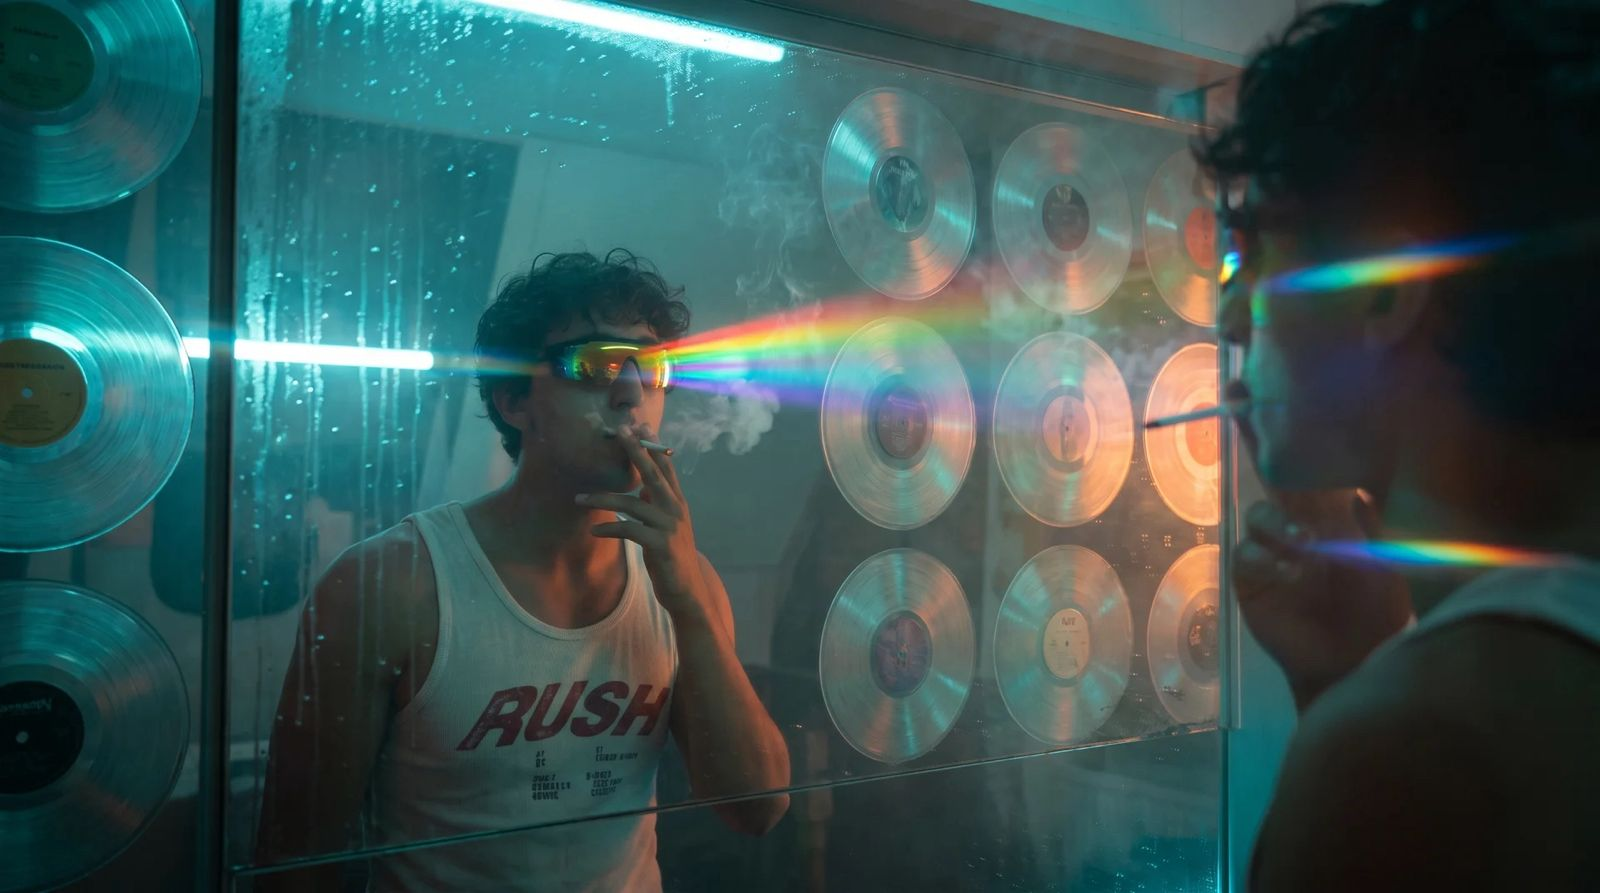
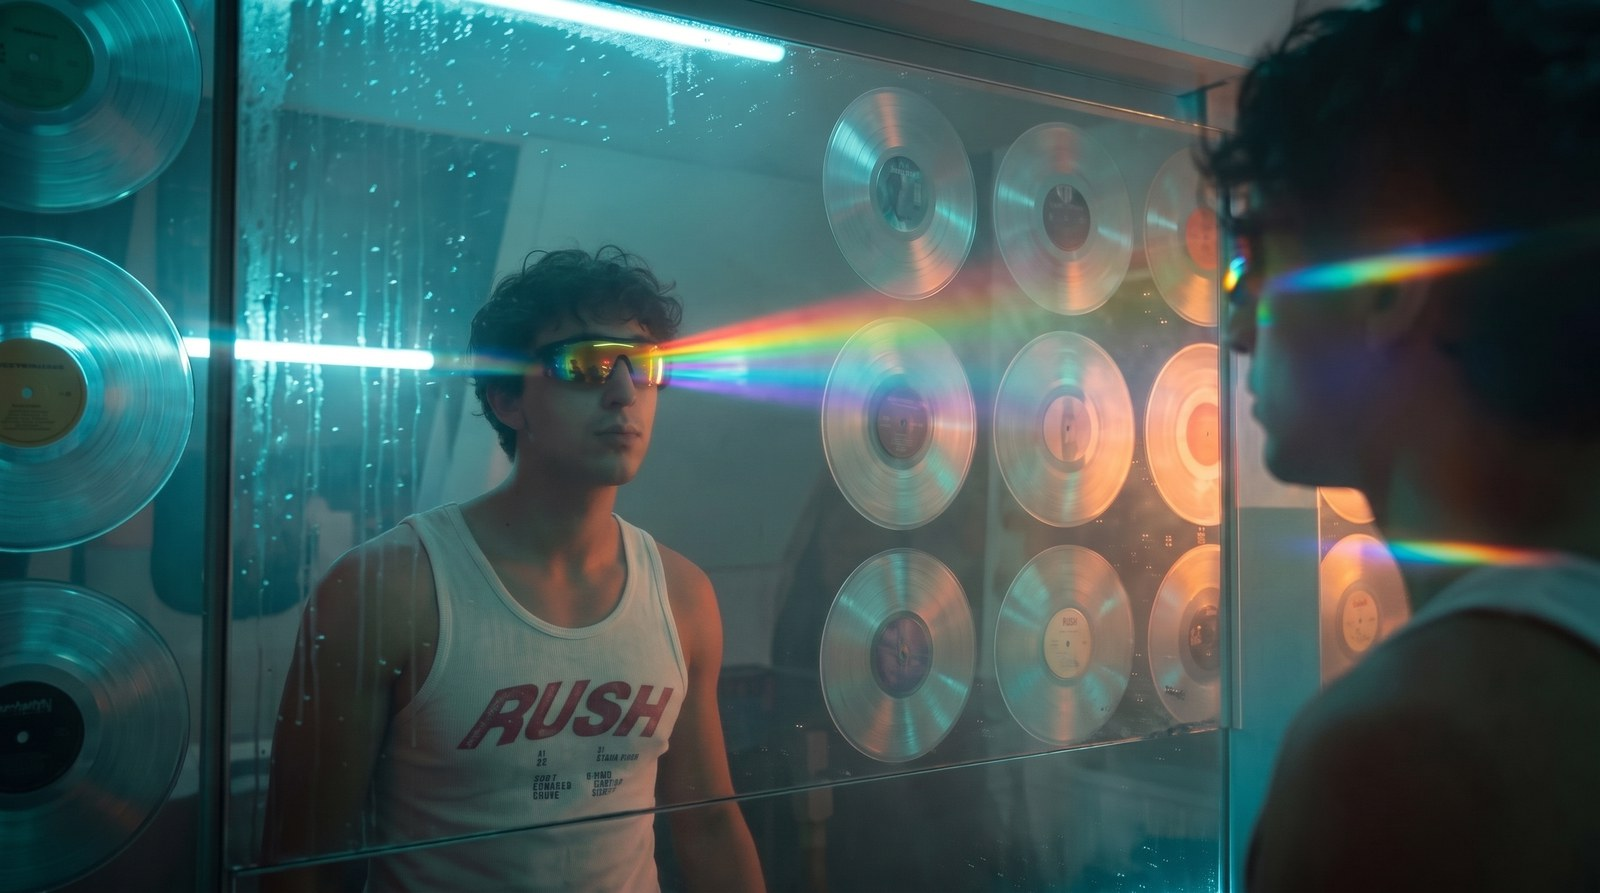
The landing photo puts the cigarette out
Same mirror wall of records, same rainbow through the sunglasses, no
cigarette and no smoke — retouched by model (nano banana pro; the crop
and the 16:9 frame survive, the raised hand came down), approved by its
owner, downscaled to the original 1600x893. foto.jpg carries a ?v now so
phones drop the smoking copy. The original is kept out of the repo. ?v=157.

diff --git a/index.html b/index.html
@@ -20,8 +20,8 @@
   <link rel="icon" type="image/png" sizes="48x48" href="favicon-48.png" />
   <link rel="apple-touch-icon" sizes="180x180" href="favicon-180.png" />
   <link rel="manifest" href="manifest.webmanifest" />
-  <link rel="stylesheet" href="fonts/fonts.css?v=156" />
-  <link rel="stylesheet" href="style.css?v=156" />
+  <link rel="stylesheet" href="fonts/fonts.css?v=157" />
+  <link rel="stylesheet" href="style.css?v=157" />
 </head>
 <body class="home" data-screen="0">
 
@@ -205,19 +205,19 @@
 
   <!-- The photo in the bottom right (whole); it slides down on screen two -->
   <div class="photo">
-    <img src="foto.jpg" alt="" />
+    <img src="foto.jpg?v=157" alt="" />
   </div>
 
-  <script src="config.js?v=156"></script>
-  <script src="session.js?v=156"></script>
-  <script src="menu.js?v=156"></script>
-  <script src="venues.js?v=156"></script>
-  <script src="cards.js?v=156"></script>
-  <script src="featured.js?v=156"></script>
-  <script src="data.js?v=156"
+  <script src="config.js?v=157"></script>
+  <script src="session.js?v=157"></script>
+  <script src="menu.js?v=157"></script>
+  <script src="venues.js?v=157"></script>
+  <script src="cards.js?v=157"></script>
+  <script src="featured.js?v=157"></script>
+  <script src="data.js?v=157"
           data-sample="36"
-          data-fallback="events-data.js?v=156"
-          data-after="globe.js?v=156, app.js?v=156"></script>
+          data-fallback="events-data.js?v=157"
+          data-after="globe.js?v=157, app.js?v=157"></script>
 
 </body>
 </html>

diff --git a/explore/index.html b/explore/index.html
@@ -20,8 +20,8 @@
   <link rel="icon" type="image/png" sizes="48x48" href="../favicon-48.png" />
   <link rel="apple-touch-icon" sizes="180x180" href="../favicon-180.png" />
   <link rel="manifest" href="../manifest.webmanifest" />
-  <link rel="stylesheet" href="../fonts/fonts.css?v=156" />
-  <link rel="stylesheet" href="../style.css?v=156" />
+  <link rel="stylesheet" href="../fonts/fonts.css?v=157" />
+  <link rel="stylesheet" href="../style.css?v=157" />
 </head>
 <body class="explore">
 
@@ -172,16 +172,16 @@
     </nav>
   </footer>
 
-  <script src="../config.js?v=156"></script>
-  <script src="../session.js?v=156"></script>
-  <script src="../menu.js?v=156"></script>
-  <script src="../swipes.js?v=156"></script>
-  <script src="../beforehours.js?v=156"></script>
-  <script src="../friendships.js?v=156"></script>
-  <script src="comment-pools.js?v=156"></script>
-  <script src="../data.js?v=156"
-          data-fallback="../events-data.js?v=156"
-          data-after="explore.js?v=156, filters.js?v=156"></script>
+  <script src="../config.js?v=157"></script>
+  <script src="../session.js?v=157"></script>
+  <script src="../menu.js?v=157"></script>
+  <script src="../swipes.js?v=157"></script>
+  <script src="../beforehours.js?v=157"></script>
+  <script src="../friendships.js?v=157"></script>
+  <script src="comment-pools.js?v=157"></script>
+  <script src="../data.js?v=157"
+          data-fallback="../events-data.js?v=157"
+          data-after="explore.js?v=157, filters.js?v=157"></script>
 
 </body>
 </html>

diff --git a/explore/event/index.html b/explore/event/index.html
@@ -15,8 +15,8 @@
   <link rel="icon" type="image/png" sizes="48x48" href="../../favicon-48.png" />
   <link rel="apple-touch-icon" sizes="180x180" href="../../favicon-180.png" />
   <link rel="manifest" href="../../manifest.webmanifest" />
-  <link rel="stylesheet" href="../../fonts/fonts.css?v=156" />
-  <link rel="stylesheet" href="../../style.css?v=156" />
+  <link rel="stylesheet" href="../../fonts/fonts.css?v=157" />
+  <link rel="stylesheet" href="../../style.css?v=157" />
 </head>
 <body>
 
@@ -48,15 +48,15 @@
     </nav>
   </footer>
 
-  <script src="../../cards.js?v=156"></script>
-  <script src="../../featured.js?v=156"></script>
-  <script src="../event-data.js?v=156"></script>
-  <script src="../../config.js?v=156"></script>
-  <script src="../../session.js?v=156"></script>
-  <script src="../../menu.js?v=156"></script>
-  <script src="../../data.js?v=156"
-          data-fallback="../../events-data.js?v=156"
-          data-after="../event.js?v=156"></script>
+  <script src="../../cards.js?v=157"></script>
+  <script src="../../featured.js?v=157"></script>
+  <script src="../event-data.js?v=157"></script>
+  <script src="../../config.js?v=157"></script>
+  <script src="../../session.js?v=157"></script>
+  <script src="../../menu.js?v=157"></script>
+  <script src="../../data.js?v=157"
+          data-fallback="../../events-data.js?v=157"
+          data-after="../event.js?v=157"></script>
 
 </body>
 </html>

diff --git a/friends/index.html b/friends/index.html
@@ -20,8 +20,8 @@
   <link rel="icon" type="image/png" sizes="48x48" href="../favicon-48.png" />
   <link rel="apple-touch-icon" sizes="180x180" href="../favicon-180.png" />
   <link rel="manifest" href="../manifest.webmanifest" />
-  <link rel="stylesheet" href="../fonts/fonts.css?v=156" />
-  <link rel="stylesheet" href="../style.css?v=156" />
+  <link rel="stylesheet" href="../fonts/fonts.css?v=157" />
+  <link rel="stylesheet" href="../style.css?v=157" />
 </head>
 <body class="friends">
 
@@ -101,15 +101,15 @@
     </nav>
   </footer>
 
-  <script src="../config.js?v=156"></script>
-  <script src="../session.js?v=156"></script>
-  <script src="../data.js?v=156"
-          data-fallback="../events-data.js?v=156"></script>
-  <script src="../swipes.js?v=156"></script>
-  <script src="../friendships.js?v=156"></script>
-  <script src="../menu.js?v=156"></script>
-  <script src="nachtradar.js?v=156"></script>
-  <script src="friends.js?v=156"></script>
+  <script src="../config.js?v=157"></script>
+  <script src="../session.js?v=157"></script>
+  <script src="../data.js?v=157"
+          data-fallback="../events-data.js?v=157"></script>
+  <script src="../swipes.js?v=157"></script>
+  <script src="../friendships.js?v=157"></script>
+  <script src="../menu.js?v=157"></script>
+  <script src="nachtradar.js?v=157"></script>
+  <script src="friends.js?v=157"></script>
 
 </body>
 </html>

diff --git a/cards/index.html b/cards/index.html
@@ -20,8 +20,8 @@
   <link rel="icon" type="image/png" sizes="48x48" href="../favicon-48.png" />
   <link rel="apple-touch-icon" sizes="180x180" href="../favicon-180.png" />
   <link rel="manifest" href="../manifest.webmanifest" />
-  <link rel="stylesheet" href="../fonts/fonts.css?v=156" />
-  <link rel="stylesheet" href="../style.css?v=156" />
+  <link rel="stylesheet" href="../fonts/fonts.css?v=157" />
+  <link rel="stylesheet" href="../style.css?v=157" />
 </head>
 <body>
 
@@ -61,14 +61,14 @@
     </nav>
   </footer>
 
-  <script src="../cards.js?v=156"></script>
-  <script src="card-data.js?v=156"></script>
-  <script src="cards.js?v=156"></script>
-  <script src="../config.js?v=156"></script>
-  <script src="../session.js?v=156"></script>
-  <script src="../data.js?v=156"></script>
-  <script src="../menu.js?v=156"></script>
-  <script src="session-state.js?v=156"></script>
+  <script src="../cards.js?v=157"></script>
+  <script src="card-data.js?v=157"></script>
+  <script src="cards.js?v=157"></script>
+  <script src="../config.js?v=157"></script>
+  <script src="../session.js?v=157"></script>
+  <script src="../data.js?v=157"></script>
+  <script src="../menu.js?v=157"></script>
+  <script src="session-state.js?v=157"></script>
 
 </body>
 </html>

diff --git a/maps/index.html b/maps/index.html
@@ -20,8 +20,8 @@
   <link rel="icon" type="image/png" sizes="48x48" href="../favicon-48.png" />
   <link rel="apple-touch-icon" sizes="180x180" href="../favicon-180.png" />
   <link rel="manifest" href="../manifest.webmanifest" />
-  <link rel="stylesheet" href="../fonts/fonts.css?v=156" />
-  <link rel="stylesheet" href="../style.css?v=156" />
+  <link rel="stylesheet" href="../fonts/fonts.css?v=157" />
+  <link rel="stylesheet" href="../style.css?v=157" />
 </head>
 <body>
 
@@ -132,13 +132,13 @@
     </nav>
   </footer>
 
-  <script src="../config.js?v=156"></script>
-  <script src="../session.js?v=156"></script>
-  <script src="../venues.js?v=156"></script>
-  <script src="../data.js?v=156"
-          data-fallback="../events-data.js?v=156"
-          data-after="map.js?v=156"></script>
-  <script src="../menu.js?v=156"></script>
+  <script src="../config.js?v=157"></script>
+  <script src="../session.js?v=157"></script>
+  <script src="../venues.js?v=157"></script>
+  <script src="../data.js?v=157"
+          data-fallback="../events-data.js?v=157"
+          data-after="map.js?v=157"></script>
+  <script src="../menu.js?v=157"></script>
 
 </body>
 </html>

diff --git a/login/index.html b/login/index.html
@@ -20,8 +20,8 @@
   <link rel="icon" type="image/png" sizes="48x48" href="../favicon-48.png" />
   <link rel="apple-touch-icon" sizes="180x180" href="../favicon-180.png" />
   <link rel="manifest" href="../manifest.webmanifest" />
-  <link rel="stylesheet" href="../fonts/fonts.css?v=156" />
-  <link rel="stylesheet" href="../style.css?v=156" />
+  <link rel="stylesheet" href="../fonts/fonts.css?v=157" />
+  <link rel="stylesheet" href="../style.css?v=157" />
 </head>
 <body>
 
@@ -100,12 +100,12 @@
     </nav>
   </footer>
 
-  <script src="../config.js?v=156"></script>
-  <script src="../session.js?v=156"></script>
-  <script src="../menu.js?v=156"></script>
-  <script src="../data.js?v=156"></script>
-  <script src="login.js?v=156"></script>
-  <script src="shortcuts.js?v=156"></script>
+  <script src="../config.js?v=157"></script>
+  <script src="../session.js?v=157"></script>
+  <script src="../menu.js?v=157"></script>
+  <script src="../data.js?v=157"></script>
+  <script src="login.js?v=157"></script>
+  <script src="shortcuts.js?v=157"></script>
 
 </body>
 </html>

diff --git a/admin/index.html b/admin/index.html
@@ -19,9 +19,9 @@
   <link rel="manifest" href="../manifest.webmanifest" />
   <link rel="icon" type="image/png" sizes="16x16" href="../favicon-16.png" />
   <link rel="icon" type="image/png" sizes="32x32" href="../favicon-32.png" />
-  <link rel="stylesheet" href="../fonts/fonts.css?v=156" />
-  <link rel="stylesheet" href="../style.css?v=156" />
-  <link rel="stylesheet" href="admin.css?v=156" />
+  <link rel="stylesheet" href="../fonts/fonts.css?v=157" />
+  <link rel="stylesheet" href="../style.css?v=157" />
+  <link rel="stylesheet" href="admin.css?v=157" />
 </head>
 <body class="admin">
 
@@ -155,10 +155,10 @@
 
   </main>
 
-  <script src="../config.js?v=156"></script>
-  <script src="../session.js?v=156"></script>
-  <script src="../data.js?v=156"></script>
-  <script src="admin.js?v=156"></script>
+  <script src="../config.js?v=157"></script>
+  <script src="../session.js?v=157"></script>
+  <script src="../data.js?v=157"></script>
+  <script src="admin.js?v=157"></script>
 
 </body>
 </html>

diff --git a/feedback/index.html b/feedback/index.html
@@ -20,8 +20,8 @@
   <link rel="icon" type="image/png" sizes="48x48" href="../favicon-48.png" />
   <link rel="apple-touch-icon" sizes="180x180" href="../favicon-180.png" />
   <link rel="manifest" href="../manifest.webmanifest" />
-  <link rel="stylesheet" href="../fonts/fonts.css?v=156" />
-  <link rel="stylesheet" href="../style.css?v=156" />
+  <link rel="stylesheet" href="../fonts/fonts.css?v=157" />
+  <link rel="stylesheet" href="../style.css?v=157" />
 </head>
 <body>
 
@@ -104,11 +104,11 @@
     </nav>
   </footer>
 
-  <script src="../config.js?v=156"></script>
-  <script src="../session.js?v=156"></script>
-  <script src="../menu.js?v=156"></script>
-  <script src="../data.js?v=156"></script>
-  <script src="feedback.js?v=156"></script>
+  <script src="../config.js?v=157"></script>
+  <script src="../session.js?v=157"></script>
+  <script src="../menu.js?v=157"></script>
+  <script src="../data.js?v=157"></script>
+  <script src="feedback.js?v=157"></script>
 
 </body>
 </html>

diff --git a/register/index.html b/register/index.html
@@ -20,8 +20,8 @@
   <link rel="icon" type="image/png" sizes="48x48" href="../favicon-48.png" />
   <link rel="apple-touch-icon" sizes="180x180" href="../favicon-180.png" />
   <link rel="manifest" href="../manifest.webmanifest" />
-  <link rel="stylesheet" href="../fonts/fonts.css?v=156" />
-  <link rel="stylesheet" href="../style.css?v=156" />
+  <link rel="stylesheet" href="../fonts/fonts.css?v=157" />
+  <link rel="stylesheet" href="../style.css?v=157" />
 </head>
 <body>
 
@@ -133,11 +133,11 @@
     </nav>
   </footer>
 
-  <script src="../config.js?v=156"></script>
-  <script src="../session.js?v=156"></script>
-  <script src="../menu.js?v=156"></script>
-  <script src="../data.js?v=156"></script>
-  <script src="register.js?v=156"></script>
+  <script src="../config.js?v=157"></script>
+  <script src="../session.js?v=157"></script>
+  <script src="../menu.js?v=157"></script>
+  <script src="../data.js?v=157"></script>
+  <script src="register.js?v=157"></script>
 
 </body>
 </html>

diff --git a/settings/index.html b/settings/index.html
@@ -20,8 +20,8 @@
   <link rel="icon" type="image/png" sizes="48x48" href="../favicon-48.png" />
   <link rel="apple-touch-icon" sizes="180x180" href="../favicon-180.png" />
   <link rel="manifest" href="../manifest.webmanifest" />
-  <link rel="stylesheet" href="../fonts/fonts.css?v=156" />
-  <link rel="stylesheet" href="../style.css?v=156" />
+  <link rel="stylesheet" href="../fonts/fonts.css?v=157" />
+  <link rel="stylesheet" href="../style.css?v=157" />
 </head>
 <body>
 
@@ -163,11 +163,11 @@
     </nav>
   </footer>
 
-  <script src="../config.js?v=156"></script>
-  <script src="../session.js?v=156"></script>
-  <script src="../menu.js?v=156"></script>
-  <script src="../data.js?v=156"></script>
-  <script src="settings.js?v=156"></script>
+  <script src="../config.js?v=157"></script>
+  <script src="../session.js?v=157"></script>
+  <script src="../menu.js?v=157"></script>
+  <script src="../data.js?v=157"></script>
+  <script src="settings.js?v=157"></script>
 
 </body>
 </html>

diff --git a/help/index.html b/help/index.html
@@ -20,8 +20,8 @@
   <link rel="icon" type="image/png" sizes="48x48" href="../favicon-48.png" />
   <link rel="apple-touch-icon" sizes="180x180" href="../favicon-180.png" />
   <link rel="manifest" href="../manifest.webmanifest" />
-  <link rel="stylesheet" href="../fonts/fonts.css?v=156" />
-  <link rel="stylesheet" href="../style.css?v=156" />
+  <link rel="stylesheet" href="../fonts/fonts.css?v=157" />
+  <link rel="stylesheet" href="../style.css?v=157" />
 </head>
 <body>
 
@@ -131,11 +131,11 @@
     </nav>
   </footer>
 
-  <script src="../config.js?v=156"></script>
-  <script src="../session.js?v=156"></script>
-  <script src="../data.js?v=156"></script>
-  <script src="../menu.js?v=156"></script>
-  <script src="help.js?v=156"></script>
+  <script src="../config.js?v=157"></script>
+  <script src="../session.js?v=157"></script>
+  <script src="../data.js?v=157"></script>
+  <script src="../menu.js?v=157"></script>
+  <script src="help.js?v=157"></script>
 
 </body>
 </html>
